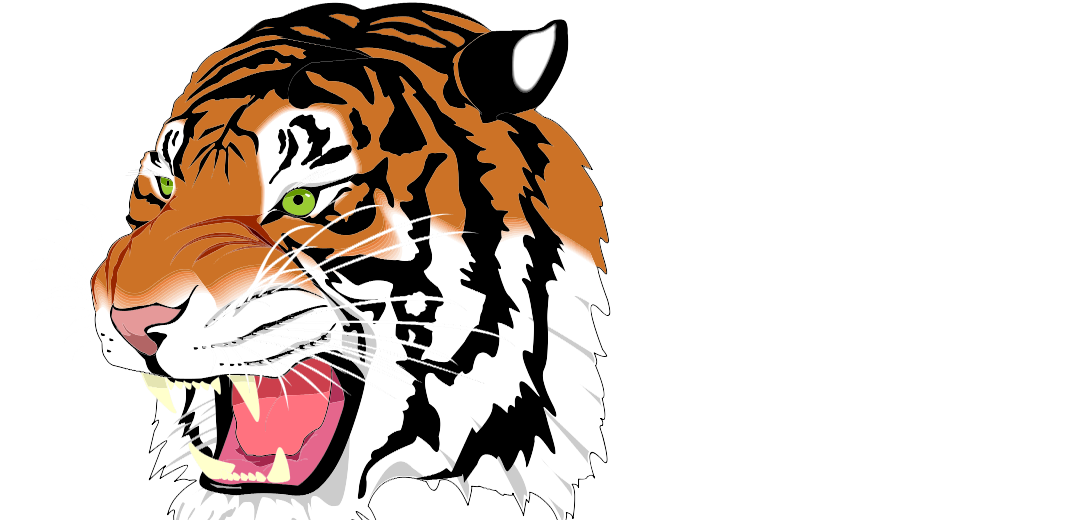
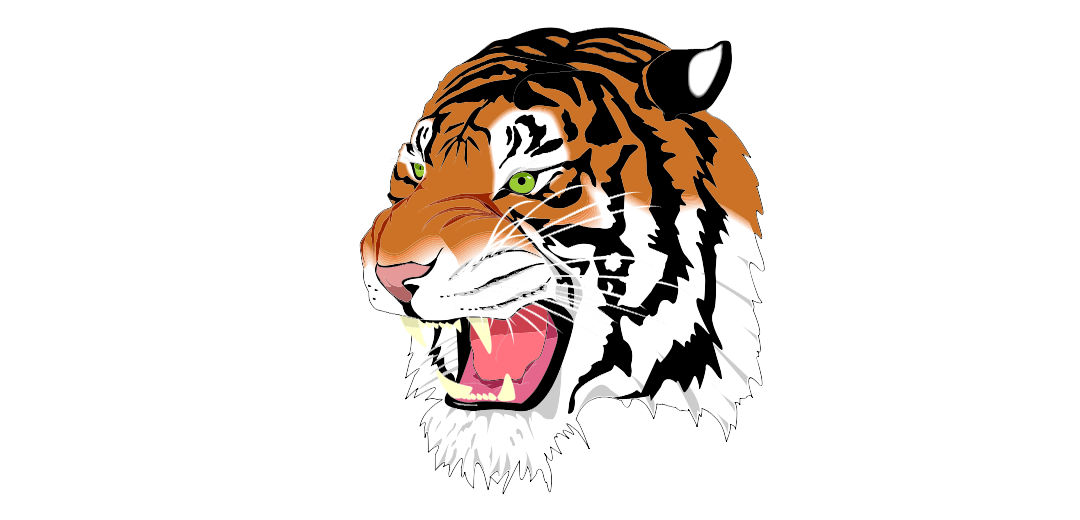
docs(skripsi): Update chapter 4 with correctness verification scope and performance results
- Add clarification on correctness verification coverage differences across test assets
- Document that Arabella output matches browser rendering for Tiger and el_gato assets
- Note paris-30k.svg serves as stress test with color composition differences due to parser limitations
- Update Table 4.4 caption to specify "three repetitions" measurement methodology
- Fill in complete performance measurement data for all three test assets (el_gato, Tiger, paris-30k)
- Add analysis of three consistent performance patterns across assets
- Explain CPU dominance in frame time due to non-compute architecture
- Document GPU rasterization cost scaling efficiency relative to tile count
- Update bench_webgl harness reference and measurement specifications

diff --git a/examples/bench_webgl/src/lib.rs b/examples/bench_webgl/src/lib.rs
@@ -336,6 +336,8 @@ struct BenchState {
     render_size: RenderSize,
 
     assets: Vec<AssetData>,
+    /// Assets captured as PNG only (not timed); used for Bab 4.6 illustrations.
+    capture_only: Vec<AssetData>,
     asset_idx: usize,
     phase: Phase,
 
@@ -558,7 +560,8 @@ impl BenchState {
 
     /// Render each asset once more and capture the canvas as a PNG data URL,
     /// shown on-page as a downloadable thumbnail. Used to produce the visual
-    /// correctness figures for Subbab 4.3.
+    /// figures for Subbab 4.3 (benchmarked assets) and Subbab 4.6
+    /// (capture-only assets that illustrate parser limitations).
     ///
     /// The WebGL context is created without `preserveDrawingBuffer`, so the
     /// drawing buffer is cleared once the browser composites the frame. We
@@ -566,63 +569,87 @@ impl BenchState {
     /// tick, before yielding back to the compositor, so the buffer is still
     /// intact when read.
     fn capture_images(&mut self) {
-        if let Ok(heading) = self.document.create_element("h3") {
-            let heading: web_sys::HtmlElement = heading.dyn_into().unwrap();
-            heading.set_inner_text(
-                "Output rendering Arabella (klik tiap gambar untuk mengunduh PNG verifikasi visual 4.3):",
-            );
-            self.body.append_child(&heading).ok();
-        }
-
-        // Re-bind the asset list out of self to satisfy the borrow checker
-        // while we also touch self.scene / self.renderer.
+        // Verification figures (Subbab 4.3): benchmarked assets.
+        self.add_heading(
+            "Output rendering Arabella — verifikasi visual 4.3 (klik tiap gambar untuk mengunduh PNG):",
+        );
         let n = self.assets.len();
         for i in 0..n {
             // Build + render this asset, then immediately snapshot.
-            let name = self.assets[i].name;
             build_scene(&mut self.scene, &self.assets[i]);
             self.renderer.render(&self.scene, &self.render_size);
-
-            let data_url = match self.canvas.to_data_url_with_type("image/png") {
-                Ok(u) => u,
-                Err(_) => {
-                    web_sys::console::warn_1(
-                        &format!("[bench] toDataURL failed for {name}").into(),
-                    );
-                    continue;
-                }
-            };
-
-            // Wrap the image in an <a download> so a click saves the PNG.
-            if let (Ok(anchor), Ok(img)) = (
-                self.document.create_element("a"),
-                self.document.create_element("img"),
-            ) {
-                let anchor: web_sys::HtmlElement = anchor.dyn_into().unwrap();
-                anchor.set_attribute("href", &data_url).ok();
-                let file_name = format!("arabella_{}.png", name.replace(".svg", ""));
-                anchor.set_attribute("download", &file_name).ok();
-                anchor.set_attribute("title", &format!("Unduh {file_name}")).ok();
-                anchor.style().set_property("display", "inline-block").ok();
-                anchor.style().set_property("margin", "8px").ok();
-
-                let img: web_sys::HtmlElement = img.dyn_into().unwrap();
-                img.set_attribute("src", &data_url).ok();
-                img.set_attribute("alt", name).ok();
-                img.style().set_property("border", "1px solid #444").ok();
-                img.style().set_property("display", "block").ok();
-                img.style().set_property("max-width", "540px").ok();
-
-                anchor.append_child(&img).ok();
-                self.body.append_child(&anchor).ok();
-            }
-
-            web_sys::console::log_1(
-                &format!("[bench] captured PNG for {name} ({} bytes data URL)", data_url.len())
-                    .into(),
-            );
+            let name = self.assets[i].name;
+            self.snapshot_canvas(name);
         }
+
+        // Limitation figures (Subbab 4.6): capture-only assets.
+        if !self.capture_only.is_empty() {
+            self.add_heading(
+                "Ilustrasi keterbatasan parser — Bab 4.6 (klik tiap gambar untuk mengunduh PNG):",
+            );
+            let m = self.capture_only.len();
+            for i in 0..m {
+                build_scene(&mut self.scene, &self.capture_only[i]);
+                self.renderer.render(&self.scene, &self.render_size);
+                let name = self.capture_only[i].name;
+                self.snapshot_canvas(name);
+            }
+        }
+
         web_sys::console::log_1(&"[bench] image capture done.".into());
+    }
+
+    /// Append a section heading to the page.
+    fn add_heading(&self, text: &str) {
+        if let Ok(heading) = self.document.create_element("h3") {
+            let heading: web_sys::HtmlElement = heading.dyn_into().unwrap();
+            heading.set_inner_text(text);
+            self.body.append_child(&heading).ok();
+        }
+    }
+
+    /// Read the current canvas as a PNG data URL and append it to the page as
+    /// a downloadable thumbnail. Must be called right after `render()` in the
+    /// same tick (no `preserveDrawingBuffer`).
+    fn snapshot_canvas(&self, name: &str) {
+        let data_url = match self.canvas.to_data_url_with_type("image/png") {
+            Ok(u) => u,
+            Err(_) => {
+                web_sys::console::warn_1(
+                    &format!("[bench] toDataURL failed for {name}").into(),
+                );
+                return;
+            }
+        };
+
+        // Wrap the image in an <a download> so a click saves the PNG.
+        if let (Ok(anchor), Ok(img)) = (
+            self.document.create_element("a"),
+            self.document.create_element("img"),
+        ) {
+            let anchor: web_sys::HtmlElement = anchor.dyn_into().unwrap();
+            anchor.set_attribute("href", &data_url).ok();
+            let file_name = format!("arabella_{}.png", name.replace(".svg", ""));
+            anchor.set_attribute("download", &file_name).ok();
+            anchor.set_attribute("title", &format!("Unduh {file_name}")).ok();
+            anchor.style().set_property("display", "inline-block").ok();
+            anchor.style().set_property("margin", "8px").ok();
+
+            let img: web_sys::HtmlElement = img.dyn_into().unwrap();
+            img.set_attribute("src", &data_url).ok();
+            img.set_attribute("alt", name).ok();
+            img.style().set_property("border", "1px solid #444").ok();
+            img.style().set_property("display", "block").ok();
+            img.style().set_property("max-width", "540px").ok();
+
+            anchor.append_child(&img).ok();
+            self.body.append_child(&anchor).ok();
+        }
+
+        web_sys::console::log_1(
+            &format!("[bench] captured PNG for {name} ({} bytes data URL)", data_url.len())
+                .into(),
+        );
     }
 }
 
@@ -656,8 +683,44 @@ fn create_canvas(width: u32, height: u32) -> HtmlCanvasElement {
     canvas
 }
 
+/// Remove an XML DOCTYPE / DTD declaration from an SVG source string.
+///
+/// `PicoSvg::load` parses with roxmltree's default options, which reject any
+/// document containing a DTD (`DtdDetected`). Some assets (e.g. el_gato.svg,
+/// exported by older tools) carry a `<!DOCTYPE svg PUBLIC ...>` line. We strip
+/// it here in the benchmark harness so the asset can be parsed; this does not
+/// touch the core library and does not affect geometry.
+fn strip_doctype(svg: &str) -> String {
+    let mut out = String::with_capacity(svg.len());
+    let mut rest = svg;
+    while let Some(start) = rest.find("<!DOCTYPE") {
+        out.push_str(&rest[..start]);
+        // DOCTYPE may contain an internal subset in [ ... ]; skip to the
+        // matching '>' that closes the declaration (after any ']').
+        let after = &rest[start..];
+        let end = if let Some(br) = after.find('[') {
+            // internal subset present: find ']' then the next '>'
+            after[br..]
+                .find(']')
+                .and_then(|rb| after[br + rb..].find('>').map(|g| br + rb + g))
+        } else {
+            after.find('>')
+        };
+        match end {
+            Some(e) => rest = &after[e + 1..],
+            None => {
+                rest = "";
+                break;
+            }
+        }
+    }
+    out.push_str(rest);
+    out
+}
+
 fn load_asset(name: &'static str, svg: &str) -> AssetData {
-    let pico = PicoSvg::load(svg, 1.0).expect("Failed to parse SVG");
+    let cleaned = strip_doctype(svg);
+    let pico = PicoSvg::load(&cleaned, 1.0).expect("Failed to parse SVG");
     // Collect with identity base so the stored op transforms are pure
     // geometry-space; the per-asset fit transform is composed at build time.
     let mut ops = Vec::new();
@@ -717,6 +780,7 @@ pub fn run_benchmark() {
         );
     }
 
+    // Assets that are BENCHMARKED (timed) and captured as PNG.
     let assets = vec![
         load_asset(
             "Ghostscript_Tiger.svg",
@@ -724,6 +788,15 @@ pub fn run_benchmark() {
         ),
         load_asset("el_gato.svg", include_str!("../../../assets/el_gato.svg")),
         load_asset("paris-30k.svg", include_str!("../../../assets/paris-30k.svg")),
+    ];
+
+    // Assets that are ONLY captured as PNG (not timed) — used to illustrate
+    // parser limitations in Bab 4.6. These rely on unsupported SVG features
+    // (SVG_Logo uses defs/use; bismillah uses pattern), so their output
+    // deliberately differs from the browser reference.
+    let capture_only = vec![
+        load_asset("SVG_Logo.svg", include_str!("../../../assets/SVG_Logo.svg")),
+        load_asset("bismillah.svg", include_str!("../../../assets/bismillah.svg")),
     ];
 
     let first_warmup = budget_for(assets[0].ops.len()).0;
@@ -738,6 +811,7 @@ pub fn run_benchmark() {
             height: BENCH_H as u32,
         },
         assets,
+        capture_only,
         asset_idx: 0,
         phase: Phase::Warmup(first_warmup),
         issued: 0,

diff --git a/Skripsi/bab4_implementasi_dan_hasil.md b/Skripsi/bab4_implementasi_dan_hasil.md
@@ -138,6 +138,8 @@ Verifikasi kebenaran keluaran (*correctness*) Arabella dilakukan terhadap tiga A
 
 Keluaran Arabella pada keenam panel tersebut dihasilkan pada kanvas 1080×520 piksel melalui *harness* `examples/bench_webgl` yang menyimpan isi kanvas sebagai berkas PNG menggunakan `HTMLCanvasElement.toDataURL`, sedangkan panel referensi merupakan tangkapan layar rendering berkas SVG yang sama oleh peramban. Agar tidak ada aset yang terpotong, *harness* menskalakan dan memusatkan geometri setiap aset secara otomatis (*auto-fit*) ke dalam kanvas berdasarkan kotak pembatas geometrinya sendiri. Penyandingan ini memungkinkan keempat aspek *correctness* dinilai secara langsung panel demi panel.
 
+Perlu ditegaskan bahwa cakupan verifikasi *correctness* berbeda menurut aset. Pada `assets/Ghostscript_Tiger.svg` dan `assets/el_gato.svg`, keseluruhan geometri, warna, dan komposisi keluaran Arabella konsisten dengan rendering peramban acuan, sehingga keempat aspek *correctness* terpenuhi. Pada `assets/paris-30k.svg`, kesesuaian geometris — yakni posisi, bentuk, dan distribusi spasial lebih dari lima puluh ribu jalur — tetap konsisten dengan peramban, namun komposisi warnanya berbeda: peta tampak lebih "rata" pada keluaran Arabella karena keterbatasan parser dalam menangani transparansi berlapis dan pewarisan warna *default*, sebagaimana diuraikan pada Subbab 4.6. Oleh karena itu, `assets/paris-30k.svg` diposisikan terutama sebagai uji-tekan (*stress test*) skalabilitas tahap *pra-pemrosesan* pada adegan berskala besar — peran yang dianalisis secara kuantitatif pada Subbab 4.4 — dan bukan sebagai uji kesesuaian warna penuh.
+
 Kebenaran keluaran ditinjau atas empat aspek *correctness* yang masing-masing memiliki kriteria keberhasilan yang dapat diobservasi secara langsung. Aspek pertama adalah ketepatan pengisian warna solid: warna *fill* solid hasil rendering Arabella dinyatakan benar apabila nilai warna setiap bidang berisi mencocokkan warna *fill* solid yang dirender peramban pada aset yang sama, tanpa pergeseran rona maupun penyimpangan nilai transparansi. Aspek kedua adalah keberhasilan ekspansi garis (*stroke expansion*) melalui `kurbo::stroke_with`: ekspansi tersebut dinyatakan benar apabila lebar dan kontur *outline* garis hasil rendering Arabella berimpit dengan garis yang dirender peramban, termasuk pada tikungan tajam dan ujung garis. Aspek ketiga adalah penerapan aturan pengisian (*fill rule*) NonZero: aturan tersebut dinyatakan benar apabila daerah berisi dan daerah berlubang pada bentuk yang saling tumpang tindih terbentuk sesuai konvensi *winding number* NonZero sebagaimana ditetapkan oleh pemanggilan `Scene::fill` dengan argumen `FillRule::NonZero`. Aspek keempat adalah ketiadaan artefak visual berupa *streak* atau *seam* pada batas ubin: keluaran dinyatakan benar apabila tidak tampak garis sambungan maupun celah pada perbatasan ubin berukuran 16×8 piksel, yang mengindikasikan bahwa propagasi backdrop antar-ubin berlangsung kontinu.
 
 Pengujian kebenaran secara otomatis dijalankan melalui *harness* `wasm-bindgen-test` pada berkas `tests/test.rs`, khususnya fungsi `test_renders_tiger_svg` (`tests/test.rs:test_renders_tiger_svg`). Fungsi tersebut memuat berkas `assets/Ghostscript_Tiger.svg` melalui `PicoSvg::load`, menyusun adegan dengan memanggil `Scene::fill` dan `Scene::stroke` untuk setiap operasi paint dalam urutan dokumen, lalu merasterisasi keluaran pada kanvas beresolusi 1080×520 piksel sesuai konstanta `W` dan `H` yang dideklarasikan pada berkas yang sama. Cakupan pengujian otomatis terbatas pada aset Ghostscript Tiger saja; dua Aset_Uji lainnya, yakni `assets/el_gato.svg` dan `assets/paris-30k.svg`, divalidasi secara manual saja tanpa kasus uji otomatis.
@@ -160,17 +162,21 @@ Pengukuran dijalankan melalui *harness* benchmark khusus (`examples/bench_webgl`
 
 Hasil pengukuran performa untuk ketiga aset uji dirangkum pada Tabel 4.4 sesuai metodologi yang diuraikan pada Subbab 4.4.1, dan diperoleh pada mesin uji yang dispesifikasikan pada Tabel 4.1. Setiap baris tabel memuat satu aset uji, sedangkan kolomnya melaporkan jumlah operasi *paint* yang diemisikan ke *scene* (Paint Ops), jumlah ubin nontrivial yang dihasilkan tahap *pra-pemrosesan* (Tiles), waktu *pra-pemrosesan* CPU rerata dalam milidetik (CPU ms) yang diukur pada blok `Builder::build_path`, waktu rasterisasi GPU rerata dalam milidetik (GPU ms) yang diukur melalui kueri *timer* GPU pada blok `WebGlRenderer::render`, total waktu satu *frame* rerata dalam milidetik (Total Frame Time ms) sebagai jumlah kedua tahap tersebut, serta laju *frame* (FPS) yang diturunkan dari resiprokal total tersebut. Setiap angka merupakan rerata dari tiga kali pengulangan pengukuran, masing-masing atas seratus dua puluh *frame* terukur.
 
-**Tabel 4.4 — Hasil pengukuran performa per aset (rerata; mesin uji Tabel 4.1; kanvas 1080×520)**
+**Tabel 4.4 — Hasil pengukuran performa per aset (rerata tiga pengulangan; mesin uji Tabel 4.1; kanvas 1080×520)**
 
 | Aset | Paint Ops | Tiles | CPU ms | GPU ms | Total Frame Time ms | FPS |
 |---|---:|---:|---:|---:|---:|---:|
-| `Ghostscript_Tiger.svg` | 182 | 9.971 | 10,27 | 0,360 | 10,63 | 94 |
-| `el_gato.svg` | [diisi setelah pengukuran] | [diisi] | [diisi] | [diisi] | [diisi] | [diisi] |
-| `paris-30k.svg` | [diisi setelah pengukuran] | [diisi] | [diisi] | [diisi] | [diisi] | [diisi] |
+| `el_gato.svg` | 14 | 819 | 0,69 | 0,100 | 0,79 | 1266 |
+| `Ghostscript_Tiger.svg` | 182 | 6.760 | 9,37 | 0,321 | 9,69 | 103 |
+| `paris-30k.svg` | 50.620 | 60.580 | 150,15 | 6,00 | 156,15 | 6,4 |
 
-Baris Ghostscript Tiger telah terisi dari pengukuran rerata tiga pengulangan; dua baris lainnya (`el_gato.svg` dan `paris-30k.svg`) menunggu pengukuran ulang dengan *harness* `examples/bench_webgl` pada konfigurasi mesin uji Tabel 4.1, dan akan dilengkapi setelah pengukuran dijalankan.
+Tabel 4.4 memperlihatkan tiga pola yang konsisten lintas ketiga aset. Pertama, waktu *pra-pemrosesan* CPU mendominasi total waktu satu *frame* pada seluruh aset. Pada `el_gato.svg`, CPU menyumbang 0,69 milidetik berbanding 0,100 milidetik di GPU (rasio sekitar 7 kali); pada `Ghostscript_Tiger.svg`, 9,37 milidetik berbanding 0,321 milidetik (sekitar 29 kali); dan pada `paris-30k.svg`, 150,15 milidetik berbanding 6,00 milidetik (sekitar 25 kali). Dominasi CPU ini merupakan konsekuensi langsung arsitektur non-compute Arabella: seluruh komputasi tujuan umum — *flattening*, *binning DDA*, dan akumulasi *signed-area* — dipikul CPU, sedangkan GPU hanya menjalankan *fragment shader* analitik yang ringan pada *pipeline* rasterisasi konvensional.
 
-Tabel 4.4 memperlihatkan pola yang konsisten dengan rancangan arsitektur non-compute. Pertama, waktu *pra-pemrosesan* CPU mendominasi total waktu satu *frame* secara mutlak: pada aset Ghostscript Tiger, CPU menyumbang 10,27 milidetik dari total 10,63 milidetik (sekitar 97 persen), sementara rasterisasi GPU hanya 0,360 milidetik — rasio dominasi CPU terhadap GPU mencapai sekitar 29 kali. Pola ini merupakan konsekuensi langsung arsitektur non-compute Arabella: seluruh komputasi tujuan umum — *flattening*, *binning DDA*, dan akumulasi *signed-area* — dipikul CPU, sedangkan GPU hanya menjalankan *fragment shader* analitik yang ringan pada *pipeline* rasterisasi konvensional. Kedua, biaya rasterisasi GPU pada aset Ghostscript Tiger tetap sangat rendah (0,360 milidetik) meskipun aset tersebut menghasilkan 9.971 ubin nontrivial, sesuai rancangan yang membatasi beban GPU per *frame* pada penggambaran *instanced quad* per ubin dan evaluasi `line_box` per segmen. Aset `el_gato.svg` dipilih untuk menguji ketepatan pengisian warna solid pada geometri *path* murni, sedangkan aset `paris-30k.svg` dengan lebih dari lima puluh ribu jalur dipilih untuk menguji skalabilitas tahap *pra-pemrosesan* pada adegan berskala besar; analisis kuantitatif kedua aset tersebut akan dilengkapi setelah baris yang bersesuaian pada Tabel 4.4 terisi.
+Kedua, biaya rasterisasi GPU tumbuh jauh lebih landai daripada biaya CPU. Ketika jumlah ubin nontrivial naik dari 819 (el_gato) menjadi 60.580 (paris-30k) — peningkatan sekitar tujuh puluh empat kali — waktu GPU hanya naik dari 0,100 milidetik menjadi 6,00 milidetik. Kestabilan relatif ini selaras dengan rancangan: beban GPU per *frame* terbatas pada penggambaran *instanced quad* per ubin nontrivial dan evaluasi `line_box` per segmen, sehingga GPU tidak pernah menjadi penentu utama waktu *frame* pada ketiga aset.
+
+Ketiga, waktu CPU ditentukan oleh kompleksitas geometri — yang tercermin pada jumlah operasi *paint*, segmen garis hasil *flattening*, dan ubin nontrivial — dan tumbuh hampir linear terhadap skala adegan. Aset `el_gato.svg` (14 operasi *paint*, 819 ubin) selesai dalam 0,69 milidetik, `Ghostscript_Tiger.svg` (182 operasi, 6.760 ubin) dalam 9,37 milidetik, sedangkan `paris-30k.svg` (50.620 operasi, 60.580 ubin) memerlukan 150,15 milidetik. Konsekuensinya pada laju *frame* bersifat dramatis: dua aset pertama mencapai jauh di atas ambang interaktivitas 60 FPS (masing-masing sekitar 1.266 FPS dan 103 FPS), sedangkan `paris-30k.svg` turun ke 6,4 FPS.
+
+Penurunan tajam pada `paris-30k.svg` merupakan temuan penting yang sejalan dengan tujuan penelitian. Pada adegan berskala sangat besar dengan lebih dari lima puluh ribu jalur, tahap *pra-pemrosesan* CPU — yang pada implementasi saat ini dieksekusi secara *single-thread* — menjadi penghambat (*bottleneck*) dominan, menyumbang 150,15 milidetik dari total 156,15 milidetik (sekitar 96 persen) waktu satu *frame*. Karena hampir seluruh beban tersebut berasal dari komputasi tujuan umum yang bersifat dapat-diparalelkan (*flattening* dan *binning* tiap jalur saling independen), temuan ini secara langsung memperkuat motivasi pengaktifan paralelisme CPU melalui Rayon yang telah disiapkan namun belum aktif (Subbab 4.6), sebagai jalur pengembangan lanjutan untuk menjaga interaktivitas pada adegan skala besar.
 
 ### 4.4.3 Analisis Perbandingan dengan Baseline
 
@@ -203,8 +209,23 @@ Implementasi Arabella pada tahap pengembangan saat ini memiliki sejumlah keterba
 - Gradien linear, radial, dan sweep belum aktif pada *fragment shader*. Pengkodean paint pada `src/scene.rs:encode_paint` hanya menangani varian *brush* solid dengan mengembalikan flag `PAINT_TYPE_SOLID`, sedangkan varian *brush* lain jatuh pada cabang fallback bertanda TODO sehingga jenis paint bergradien — meskipun konstanta `PAINT_TYPE_LINEAR`, `PAINT_TYPE_RADIAL`, dan `PAINT_TYPE_SWEEP` telah didefinisikan — belum dievaluasi pada *fragment shader*.
 - *Image paint* dan *tinting* belum diunggah dari `Scene` ke GPU. Struktur `GpuEncodedImage` pada `src/render/common.rs` telah dideklarasikan sebagai representasi paint citra, namun jalur pengunggahan dari `Scene` menuju tekstur paint pada GPU belum diwujudkan sehingga *image paint* belum dapat dirasterisasi.
 - *Rayon* belum diaktifkan pada *hot path* tahap *pra-pemrosesan*. Pada `Cargo.toml`, paralelisme berbasis *Rayon* dideklarasikan sebagai feature `multithreading` yang bersifat opsional dan berada di balik `default = ["std", "png"]`, sehingga build baku tidak menarik dependensi `rayon` dan tahap *pra-pemrosesan* CPU dieksekusi secara serial.
-- Subset SVG yang didukung masih terbatas. Dispatch tag-name pada `src/pico_svg.rs:Parser::rec_parse` hanya menangani elemen `g` dan `path` beserta atribut presentation `fill`, `stroke`, `stroke-width`, dan `transform`, sedangkan elemen di luar himpunan tersebut ditangani oleh arm fallback yang melaporkan tipe simpul tak tertangani tanpa merasterisasinya.
+- Subset SVG yang didukung masih terbatas. Dispatch tag-name pada `src/pico_svg.rs:Parser::rec_parse` hanya menangani elemen `g` dan `path` beserta atribut presentation `fill`, `stroke`, `stroke-width`, dan `transform`, sedangkan elemen di luar himpunan tersebut ditangani oleh arm fallback yang melaporkan tipe simpul tak tertangani tanpa merasterisasinya. Konsekuensinya, dokumen SVG yang mengandung elemen `defs`, `use`, `linearGradient`/`radialGradient`, `pattern`, atau bentuk dasar non-`path` (`rect`, `circle`, dan sejenisnya) tidak dirender secara utuh.
+- Pewarisan transparansi dan warna *default* belum lengkap. Fungsi `modify_opacity` pada `src/pico_svg.rs` menerapkan atribut `opacity` dan `fill-opacity` hanya pada elemen yang memiliki atribut `fill` eksplisit, dan opacity yang ditetapkan pada elemen grup `g` belum dipropagasikan secara rekursif ke anak-anaknya — sebagaimana ditandai oleh komentar `// TODO: Handle recursive opacity properly` pada berkas yang sama. Selain itu, jalur yang tidak menyebutkan atribut `fill` mewarisi warna *default* hitam (`palette::css::BLACK` pada `PicoSvg::load`). Pada dokumen yang menumpuk banyak bidang semi-transparan berlapis dan banyak jalur tanpa `fill` eksplisit — sebagaimana lazim pada peta vektor seperti `assets/paris-30k.svg` — kedua keterbatasan ini menyebabkan komposisi warna keluaran berbeda dari rendering peramban, meskipun geometri jalurnya tetap akurat.
 - Tiada sistem *text rendering*. Implementasi saat ini belum menyediakan jalur untuk memuat *font*, melakukan *shaping* glyph, maupun merasterisasi teks sebagai bagian dari adegan.
 - Tiada *filter effect* seperti *blur* dan *drop shadow*. Operasi penyaringan citra pasca-rasterisasi belum tersedia sehingga efek visual semacam itu tidak dapat diterapkan pada hasil rendering.
 
-Keterbatasan-keterbatasan tersebut merupakan ruang *pengembangan lanjutan* (*future work*) yang dapat ditindaklanjuti pada iterasi berikutnya, dan tidak satu pun di antaranya menggugurkan validitas kontribusi inti penelitian ini. Kontribusi inti tersebut terletak pada perwujudan *pipeline hibrida non-compute* yang memindahkan seluruh komputasi tujuan umum ke tahap *pra-pemrosesan* CPU dan menyerahkan rasterisasi akhir kepada *vertex shader* serta *fragment shader* di atas WebGL 2.0, dan kelengkapan paint bergradien, *image paint*, paralelisme *Rayon*, perluasan subset SVG, *text rendering*, maupun *filter effect* merupakan penyempurnaan fitur yang berdiri di atas fondasi arsitektur yang telah terbukti berfungsi tersebut.
+Sebagian keterbatasan parser di atas dapat diilustrasikan secara visual. Gambar 4.4 dan Gambar 4.5 menyandingkan keluaran Arabella terhadap rendering peramban acuan pada dua dokumen SVG yang berada di luar *subset* yang didukung, sehingga selisihnya memperjelas batas kapabilitas parser saat ini.
+
+**Gambar 4.4 — Ilustrasi keterbatasan parser pada SVG yang memakai `defs`/`use` (SVG Logo): keluaran Arabella (kiri) dan rendering referensi peramban (kanan)**
+
+![SVG Logo dirender oleh Arabella — sebagian geometri hilang karena use/defs tak didukung](gambar/4.4a-svglogo-arabella.png)
+![SVG Logo dirender oleh peramban referensi](gambar/4.4b-svglogo-referensi.png)
+
+**Gambar 4.5 — Ilustrasi keterbatasan parser pada SVG yang memakai `pattern` dan kurva kaligrafis (Bismillah): keluaran Arabella (kiri) dan rendering referensi peramban (kanan)**
+
+![Bismillah dirender oleh Arabella — bidang ber-pattern tidak terisi benar](gambar/4.5a-bismillah-arabella.png)
+![Bismillah dirender oleh peramban referensi](gambar/4.5b-bismillah-referensi.png)
+
+Pada Gambar 4.4, dokumen `SVG_Logo.svg` menyusun sebagian besar geometrinya melalui elemen `use` yang mereferensikan bentuk pada blok `defs`; karena kedua elemen tersebut tidak ditangani parser, sebagian besar bidang logo tidak muncul pada keluaran Arabella. Pada Gambar 4.5, dokumen `bismillah.svg` mengandung elemen `pattern` sebagai pengisi bidang, yang juga tidak didukung, sehingga area ber-*pattern* tidak terisi sebagaimana mestinya. Kedua kasus tersebut menegaskan bahwa selisih visual berasal dari cakupan parser, bukan dari kesalahan tahap rasterisasi inti — sejalan dengan pemilihan tiga Aset_Uji pada Subbab 4.3 yang seluruhnya berada di dalam *subset* `g`/`path` yang didukung.
+
+Keterbatasan-keterbatasan tersebut merupakan ruang *pengembangan lanjutan* (*future work*) yang dapat ditindaklanjuti pada iterasi berikutnya, dan tidak satu pun di antaranya menggugurkan validitas kontribusi inti penelitian ini. Kontribusi inti tersebut terletak pada perwujudan *pipeline hibrida non-compute* yang memindahkan seluruh komputasi tujuan umum ke tahap *pra-pemrosesan* CPU dan menyerahkan rasterisasi akhir kepada *vertex shader* serta *fragment shader* di atas WebGL 2.0, dan kelengkapan paint bergradien, *image paint*, paralelisme *Rayon*, perluasan subset SVG, penanganan transparansi berlapis, *text rendering*, maupun *filter effect* merupakan penyempurnaan fitur yang berdiri di atas fondasi arsitektur yang telah terbukti berfungsi tersebut.

diff --git a/Skripsi/gambar/README.md b/Skripsi/gambar/README.md
@@ -37,6 +37,38 @@ tangkapan layar area gambar. Simpan di folder ini dengan nama:
 Alternatif renderer referensi: resvg, Inkscape, atau Firefox — pilih salah
 satu dan sebutkan di Bab 4.3 renderer referensi mana yang dipakai.
 
+## Ilustrasi keterbatasan parser Bab 4.6
+
+Bab 4.6 merujuk empat berkas gambar tambahan: untuk dua dokumen SVG yang
+berada di luar subset parser (SVG Logo memakai `defs`/`use`, Bismillah
+memakai `pattern`), masing-masing satu keluaran Arabella dan satu rendering
+referensi peramban. Gambar-gambar ini sengaja menampilkan selisih visual
+sebagai bukti keterbatasan parser.
+
+Cara memperolehnya:
+
+1. Drag-drop `assets/SVG_Logo.svg` dan `assets/bismillah.svg` ke tab Chrome
+   untuk panel referensi; simpan tangkapan layarnya sebagai
+   `4.4b-svglogo-referensi.png` dan `4.5b-bismillah-referensi.png`.
+2. Untuk keluaran Arabella, tambahkan sementara kedua berkas tersebut ke
+   daftar aset pada `examples/bench_webgl/src/lib.rs` (fungsi `run_benchmark`,
+   lewat `load_asset`), jalankan benchmark, lalu unduh PNG hasil tangkapan
+   kanvas. Simpan sebagai `4.4a-svglogo-arabella.png` dan
+   `4.5a-bismillah-arabella.png`, lalu kembalikan daftar aset ke semula.
+
+Catatan: `load_asset` pada harness sudah memanggil `strip_doctype`, sehingga
+berkas ber-DOCTYPE pun dapat diparse untuk keperluan ilustrasi ini.
+
+### Daftar nama berkas yang dirujuk skripsi
+
+| Berkas | Dirujuk di |
+|---|---|
+| `4.1a-tiger-arabella.png`, `4.1b-tiger-referensi.png` | Gambar 4.1 |
+| `4.2a-elgato-arabella.png`, `4.2b-elgato-referensi.png` | Gambar 4.2 |
+| `4.3a-paris-arabella.png`, `4.3b-paris-referensi.png` | Gambar 4.3 |
+| `4.4a-svglogo-arabella.png`, `4.4b-svglogo-referensi.png` | Gambar 4.4 |
+| `4.5a-bismillah-arabella.png`, `4.5b-bismillah-referensi.png` | Gambar 4.5 |
+
 ### Catatan
 
 Setelah keenam berkas tersedia di folder ini dengan nama di atas, sintaks
